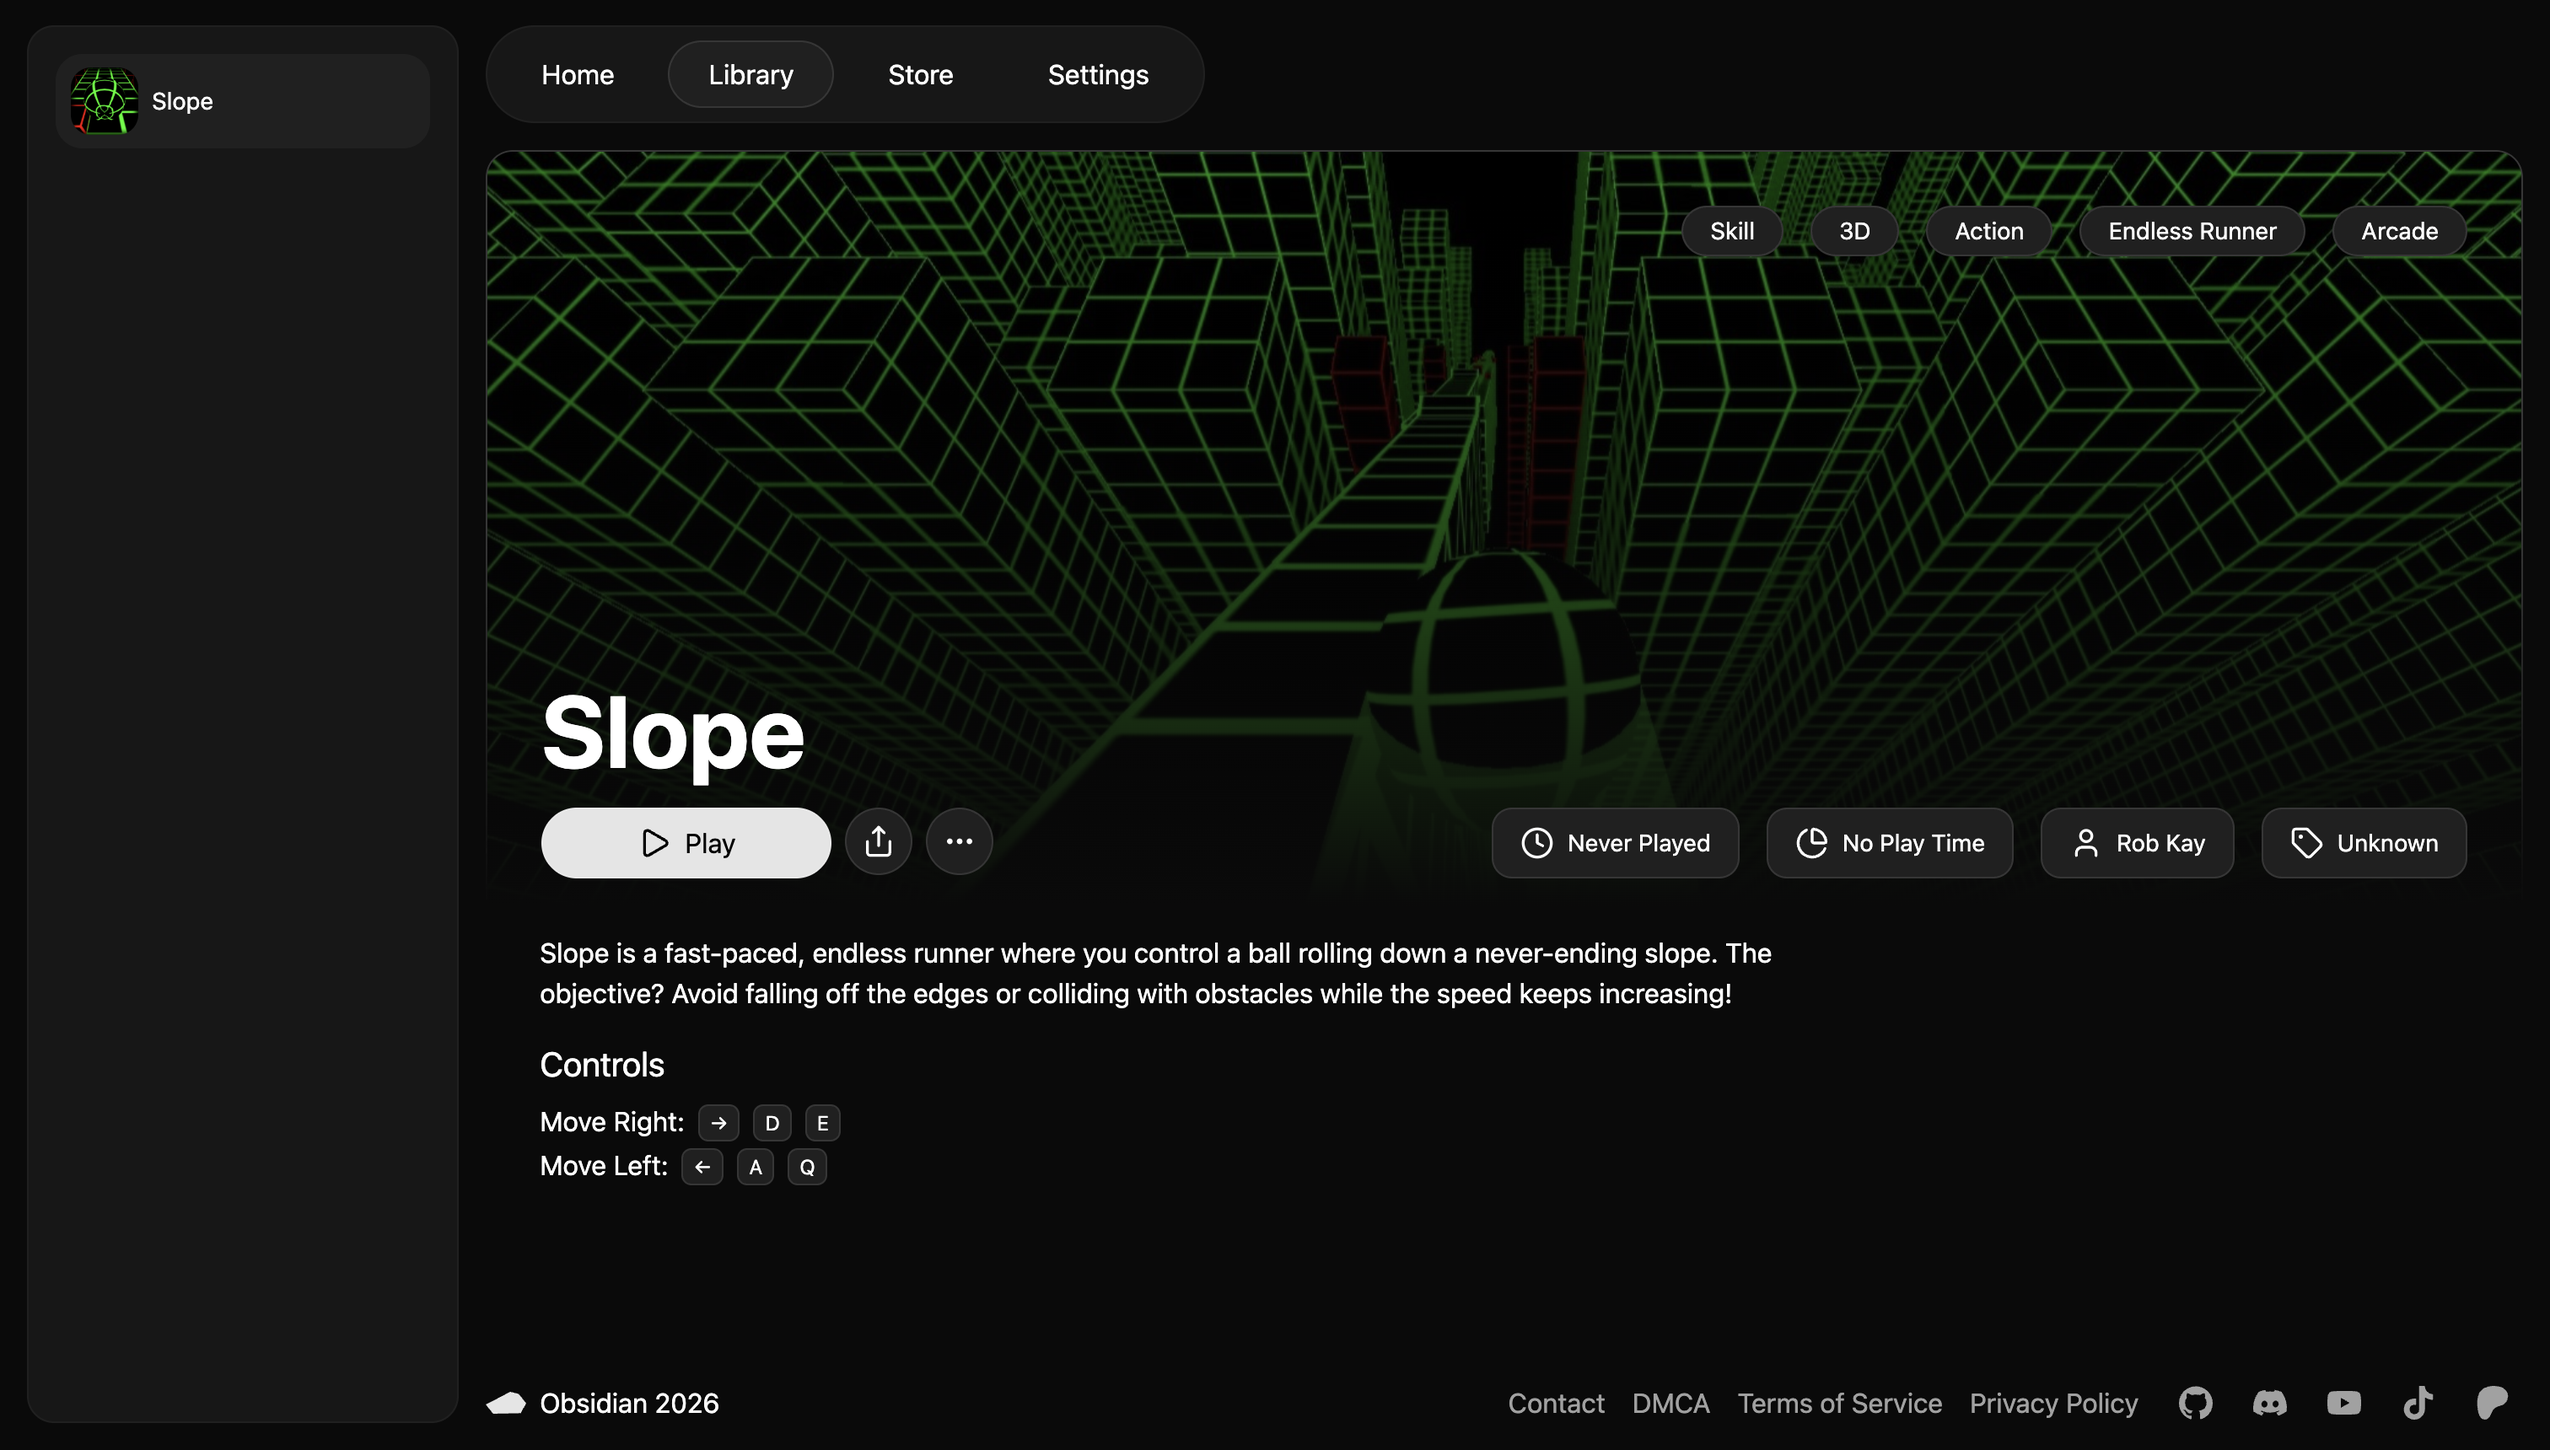
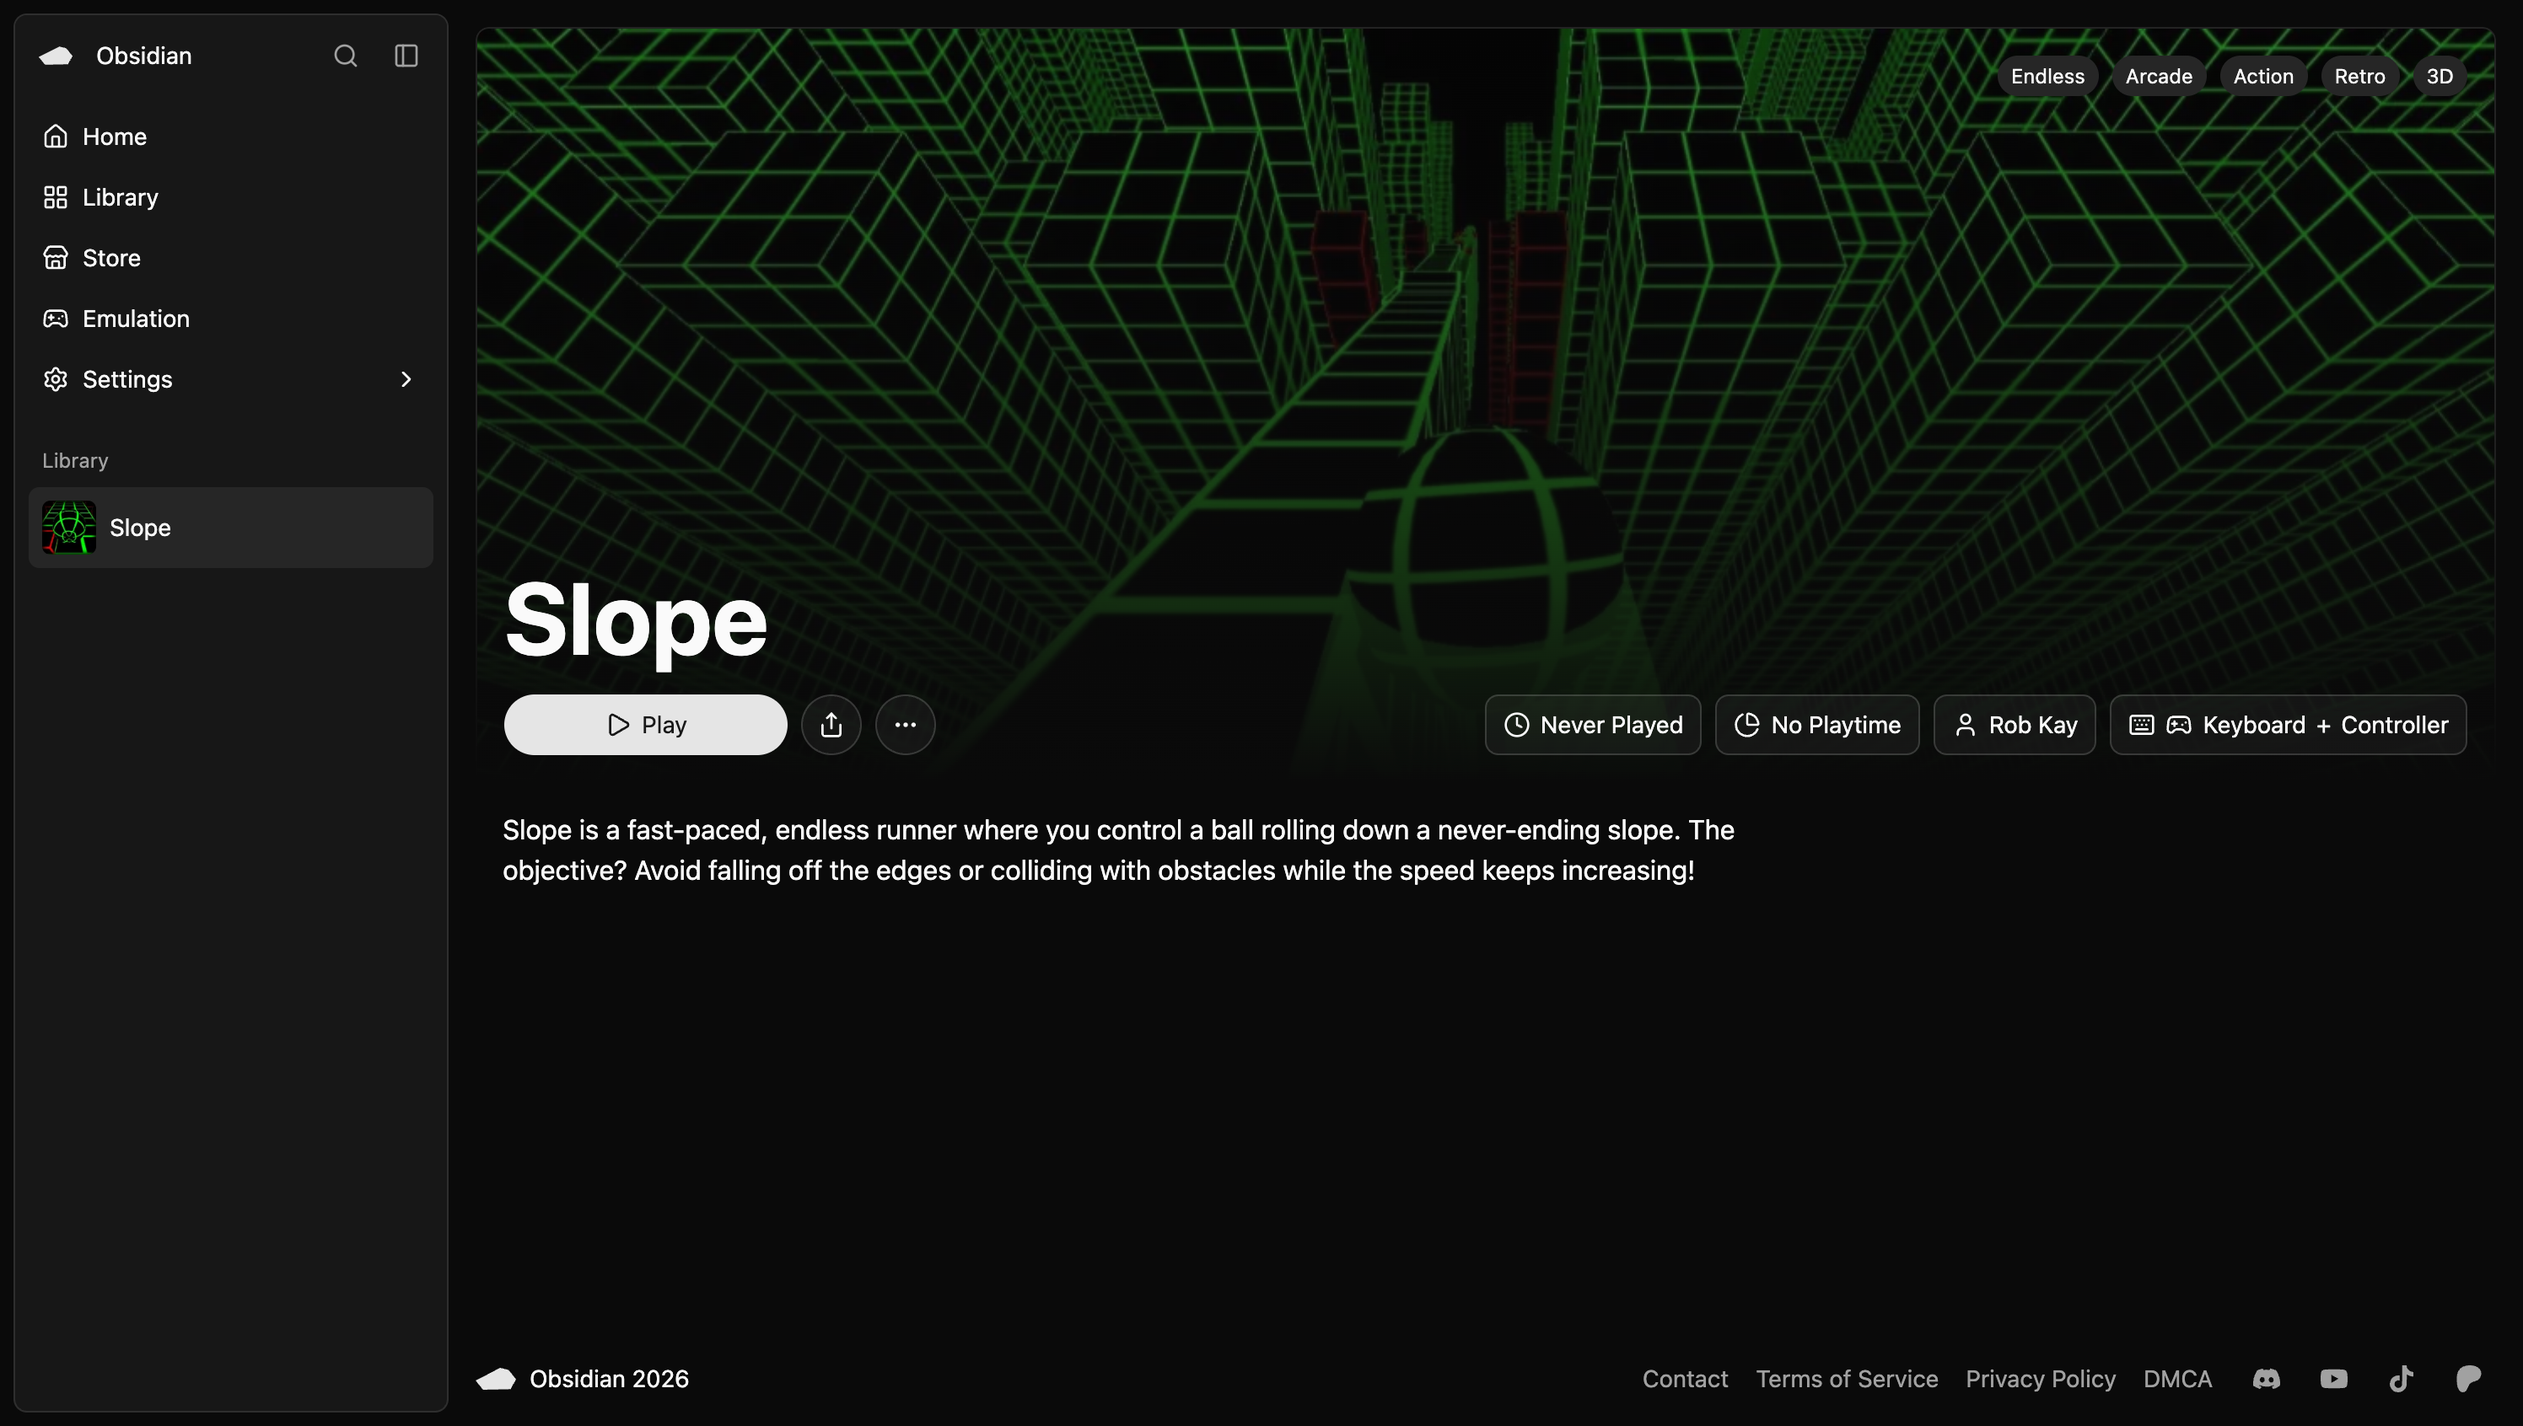
Update PWA Assets

diff --git a/src/routes/(main)/+page.svelte b/src/routes/(main)/+page.svelte
@@ -34,6 +34,14 @@
     .map((id) => storage.catalog.find((item) => item.id === id))
     .filter(Boolean);
 
+  let recentlyAddedData = $derived(
+    [...storage.catalog]
+      .sort((a, b) => {
+        return b.dateAdded - a.dateAdded;
+      })
+      .slice(0, 5),
+  );
+
   let clickCount = $state(0);
   let timeoutId;
 
@@ -137,8 +145,9 @@
         <p>Advanced Features</p>
       </div>
       <p class="text-sm text-muted">
-        Track your playtime, save your favorites, and configure many
-        settings and themes with local syncing and the ability to download and store data and <Obfuscate text="game"></Obfuscate> saves.
+        Track your playtime, save your favorites, and configure many settings
+        and themes with local syncing and the ability to download and store data
+        and <Obfuscate text="game"></Obfuscate> saves.
       </p>
     </Card>
   </div>
@@ -168,7 +177,7 @@
   <div>
     <Cards
       title="Recently Added"
-      data={featuredData.reverse()}
+      data={recentlyAddedData}
       buttons="store"
       link="/store/"
       newBadge={true}

diff --git a/README.md b/README.md
@@ -2,18 +2,21 @@
 Play instantly. No downloads.
 
 ## Todo
+- Pikuniku controls
 - Store
   - Better nav and make nav work
 - Creator
   - Update all styles
-- General
-  - Fix PWA images
-  - Other controller types
 
 ## Before Release
-- Add real recently added and featured
+- Flesh out store and featured
 - Make socials
 - Accessibility
+
+## After release
+- Other controller types
+- Overlay game menu
+- Local backups
 
 # License
 Obsidian uses the Apache 2.0 with Commons Clause v1.0. Commercial use is strictly prohibited.
